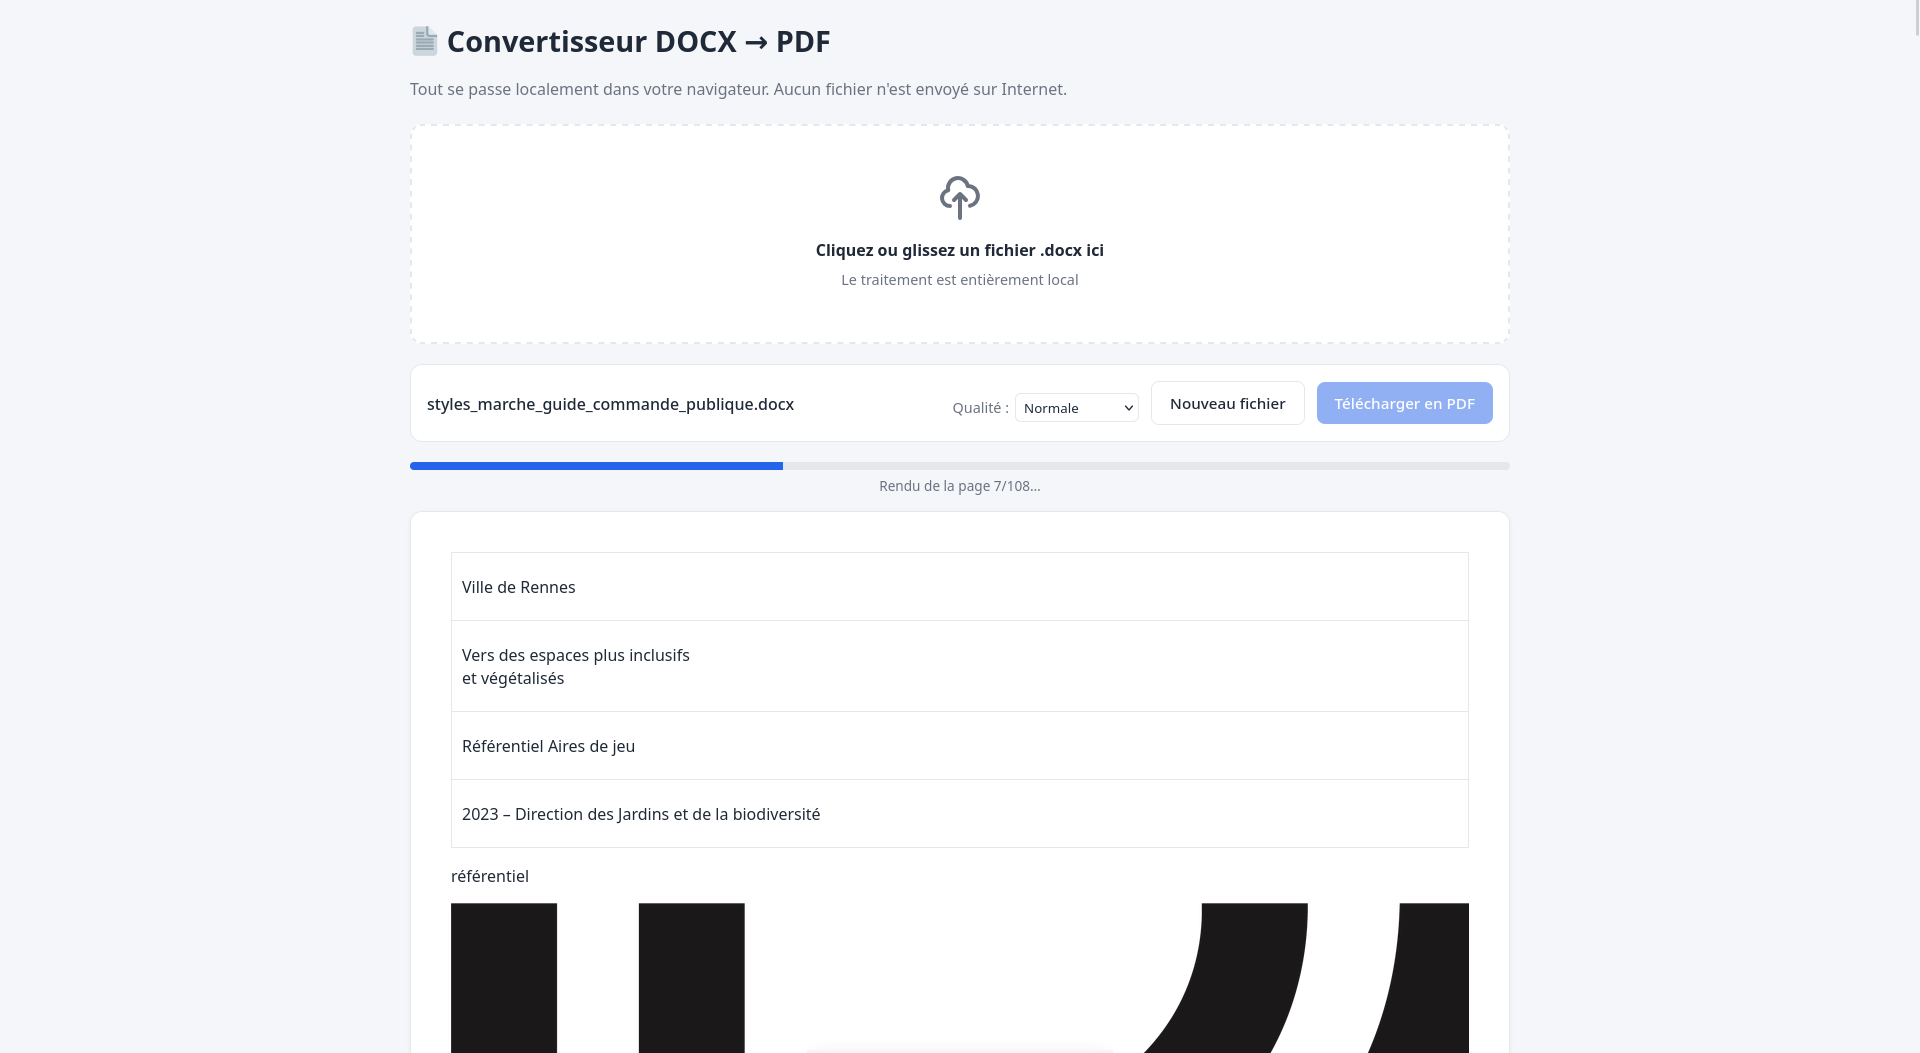
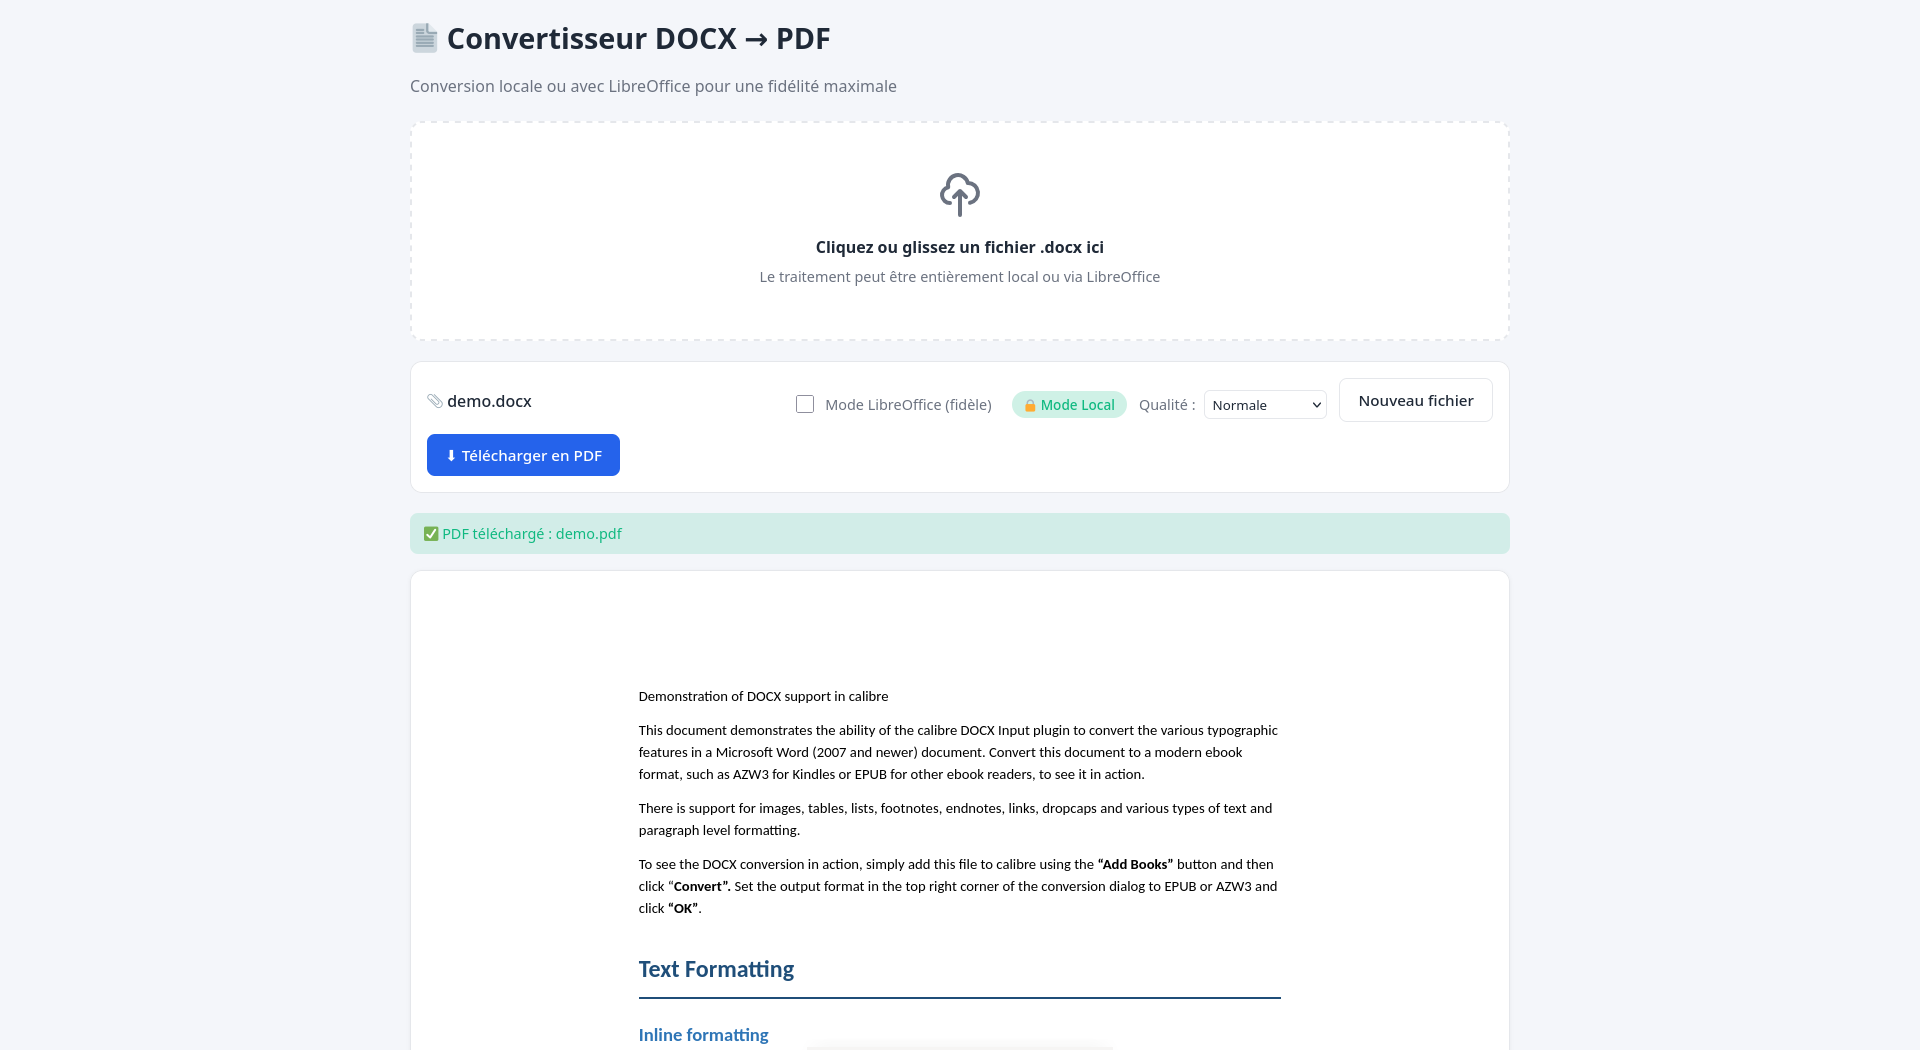
Py preview added, export bugfix, table & color possible with local export

diff --git a/docxTopdf.html b/docxTopdf.html
@@ -7,6 +7,7 @@
 <script src="https://cdnjs.cloudflare.com/ajax/libs/mammoth/1.6.0/mammoth.browser.min.js"></script>
 <script src="https://cdnjs.cloudflare.com/ajax/libs/jspdf/2.5.1/jspdf.umd.min.js"></script>
 <script src="https://cdnjs.cloudflare.com/ajax/libs/html2canvas/1.4.1/html2canvas.min.js"></script>
+<script src="https://cdnjs.cloudflare.com/ajax/libs/jszip/3.10.1/jszip.min.js"></script>
 <style>
   :root {
     --bg: #f4f6fa;
@@ -116,7 +117,7 @@
   .warning-box.active { display: block; }
   .warning-box strong { color: var(--warning); }
 
-  /* Styles de contenu PDF - fidèles à Word */
+  /* ============ STYLES DE CONTENU PDF ============ */
   .pdf-content {
     font-family: 'Calibri', 'Segoe UI', Arial, sans-serif;
     font-size: 11pt; line-height: 1.5; color: #000; background: #fff;
@@ -140,15 +141,95 @@
   .pdf-content .text-inverse { background: #000; color: #fff; padding: 2pt 6pt; }
   .pdf-content .paragraph-right { text-align: right; border-right: 3pt solid #ccc; background: #f0f0f0; padding: 8pt; margin: 9pt 0; }
   .pdf-content .paragraph-hanging { text-indent: -20pt; padding-left: 20pt; margin-top: 12pt; }
-  .pdf-content table { border-collapse: collapse; width: 100%; margin: 12pt 0; }
-  .pdf-content table th, .pdf-content table td { border: 1pt solid #000; padding: 4pt 8pt; text-align: left; }
-  .pdf-content table th { background: #d9e2f3; font-weight: bold; }
   .pdf-content ul, .pdf-content ol { margin: 9pt 0; padding-left: 30pt; }
   .pdf-content li { margin: 3pt 0; }
   .pdf-content img { max-width: 100%; height: auto; }
   .pdf-content a { color: #0563c1; text-decoration: underline; }
 
-  /* Conteneur de capture PDF - hauteur fixe A4 */
+  /* ============ TABLEAUX - STYLES COMPLETS ============ */
+  .pdf-content table {
+    border-collapse: collapse;
+    width: 100%;
+    margin: 12pt 0;
+    font-size: 10pt;
+    table-layout: auto;
+  }
+  .pdf-content table td,
+  .pdf-content table th {
+    border: 1pt solid #000000;
+    padding: 4pt 6pt;
+    text-align: left;
+    vertical-align: middle;
+    word-wrap: break-word;
+  }
+  .pdf-content table th {
+    background: #d9e2f3;
+    font-weight: bold;
+    color: #000;
+  }
+  /* Alternance de couleurs pour les lignes */
+  .pdf-content table tbody tr:nth-child(even) {
+    background: #f2f2f2;
+  }
+  .pdf-content table tbody tr:nth-child(odd) {
+    background: #ffffff;
+  }
+  /* Première ligne en gras si pas de th */
+  .pdf-content table tbody tr:first-child td {
+    font-weight: bold;
+    background: #e8edf5;
+  }
+  /* Tableaux flottants à gauche/droite */
+  .pdf-content table.float-left {
+    float: left;
+    margin-right: 12pt;
+    width: auto;
+  }
+  .pdf-content table.float-right {
+    float: right;
+    margin-left: 12pt;
+    width: auto;
+  }
+  /* Tableaux centrés */
+  .pdf-content table.centered {
+    margin-left: auto;
+    margin-right: auto;
+  }
+  /* Cellules fusionnées - style spécial */
+  .pdf-content table td[colspan],
+  .pdf-content table td[rowspan],
+  .pdf-content table th[colspan],
+  .pdf-content table th[rowspan] {
+    background: #f8f9fa;
+  }
+  /* Tableaux avec bordures colorées */
+  .pdf-content table.border-green td,
+  .pdf-content table.border-green th {
+    border-color: #008000;
+  }
+  .pdf-content table.border-blue td,
+  .pdf-content table.border-blue th {
+    border-color: #0000ff;
+  }
+  .pdf-content table.border-red td,
+  .pdf-content table.border-red th {
+    border-color: #ff0000;
+  }
+  /* Cellules vides - garder une hauteur minimale */
+  .pdf-content table td:empty::after,
+  .pdf-content table th:empty::after {
+    content: "\00a0";
+  }
+  /* Calendriers et tableaux larges */
+  .pdf-content table.wide {
+    font-size: 9pt;
+  }
+  .pdf-content table.wide td,
+  .pdf-content table.wide th {
+    padding: 2pt 4pt;
+  }
+
+  /* ============ CAPTURE PDF ============ */
   .pdf-page-capture {
     width: 794px;
     min-height: 1123px;
@@ -159,6 +240,15 @@
     font-family: 'Calibri', 'Segoe UI', Arial, sans-serif;
     font-size: 11pt;
     line-height: 1.5;
+  }
+  .pdf-page-capture table {
+    border-collapse: collapse;
+    width: 100%;
+  }
+  .pdf-page-capture table td,
+  .pdf-page-capture table th {
+    border: 1pt solid #000000;
+    padding: 4pt 6pt;
   }
 </style>
 </head>
@@ -256,7 +346,7 @@ function hideProgress() { progressWrap.classList.remove('active'); }
 libreofficeCheck.addEventListener('change', () => {
   if (libreofficeCheck.checked) {
     warningBox.classList.add('active');
-    modeIndicator.textContent = '🖥️ Mode LibreOffice';
+    modeIndicator.textContent = '️ Mode LibreOffice';
     modeIndicator.className = 'mode-indicator mode-libreoffice';
     showStatus('ℹ️ Mode LibreOffice activé - Fallback automatique si serveur indisponible', 'warning');
   } else {
@@ -281,6 +371,119 @@ fileInput.addEventListener('change', e => {
   if (e.target.files[0]) handleFile(e.target.files[0]);
 });
 
+// Extraire les styles inline du DOCX
+async function extractInlineStyles(file) {
+  const styles = new Map();
+  try {
+    const zip = await JSZip.loadAsync(file);
+    const documentXml = await zip.file('word/document.xml').async('string');
+    const parser = new DOMParser();
+    const xmlDoc = parser.parseFromString(documentXml, 'application/xml');
+    const runs = xmlDoc.getElementsByTagName('w:r');
+    let runIndex = 0;
+    for (const run of runs) {
+      const rPr = run.getElementsByTagName('w:rPr')[0];
+      if (rPr) {
+        const styleInfo = {};
+        const color = rPr.getElementsByTagName('w:color')[0];
+        if (color) styleInfo.color = '#' + color.getAttribute('w:val');
+        const highlight = rPr.getElementsByTagName('w:highlight')[0];
+        if (highlight) styleInfo.highlight = highlight.getAttribute('w:val');
+        const border = rPr.getElementsByTagName('w:bdr')[0];
+        if (border) styleInfo.border = true;
+        const strike = rPr.getElementsByTagName('w:strike')[0];
+        if (strike && strike.getAttribute('w:val') !== '0') styleInfo.strike = true;
+        if (Object.keys(styleInfo).length > 0) styles.set(runIndex, styleInfo);
+      }
+      runIndex++;
+    }
+  } catch (err) {
+    console.warn('Erreur extraction styles:', err);
+  }
+  return styles;
+}
+
+// Appliquer les styles inline au HTML
+function applyInlineStyles(html, styles) {
+  const parser = new DOMParser();
+  const doc = parser.parseFromString(html, 'text/html');
+  const elements = doc.body.querySelectorAll('p, span, strong, em, b, i, u, s');
+  let elementIndex = 0;
+  for (const el of elements) {
+    const styleInfo = styles.get(elementIndex);
+    if (styleInfo) {
+      if (styleInfo.color && styleInfo.color !== '#000000') el.style.color = styleInfo.color;
+      if (styleInfo.highlight) {
+        const highlightColors = {
+          yellow: '#FFFF00', green: '#00FF00', blue: '#00FFFF', red: '#FF0000',
+          magenta: '#FF00FF', cyan: '#00FFFF', white: '#FFFFFF', darkBlue: '#00008B',
+          darkCyan: '#008B8B', darkGreen: '#006400', darkMagenta: '#8B008B',
+          darkRed: '#8B0000', darkYellow: '#808000', darkGray: '#A9A9A9',
+          lightGray: '#D3D3D3', black: '#000000'
+        };
+        el.style.backgroundColor = highlightColors[styleInfo.highlight] || styleInfo.highlight;
+        el.style.padding = '2pt 4pt';
+      }
+      if (styleInfo.border) {
+        el.style.border = '1pt solid #000';
+        el.style.padding = '4pt 8pt';
+        el.style.display = 'inline-block';
+      }
+      if (styleInfo.strike) el.style.textDecoration = 'line-through';
+    }
+    elementIndex++;
+  }
+  return doc.body.innerHTML;
+}
+
+// Améliorer les tableaux : forcer les bordures et la structure
+function enhanceTables(html) {
+  const parser = new DOMParser();
+  const doc = parser.parseFromString(html, 'text/html');
+  const tables = doc.querySelectorAll('table');
+  
+  tables.forEach((table, tableIndex) => {
+    // Forcer border-collapse
+    table.style.borderCollapse = 'collapse';
+    table.style.width = '100%';
+    table.style.margin = '12pt 0';
+    
+    const rows = table.querySelectorAll('tr');
+    rows.forEach((row, rowIndex) => {
+      const cells = row.querySelectorAll('td, th');
+      cells.forEach((cell, cellIndex) => {
+        // Forcer les bordures sur chaque cellule
+        cell.style.border = '1pt solid #000000';
+        cell.style.padding = '4pt 6pt';
+        cell.style.verticalAlign = 'middle';
+        
+        // Première ligne = en-tête
+        if (rowIndex === 0) {
+          cell.style.fontWeight = 'bold';
+          cell.style.background = '#d9e2f3';
+          if (cell.tagName === 'TD') {
+            cell.tagName = 'TH';
+          }
+        }
+        // Alternance de couleurs
+        else if (rowIndex % 2 === 0) {
+          cell.style.background = '#f2f2f2';
+        }
+        else {
+          cell.style.background = '#ffffff';
+        }
+        
+        // Cellules vides : ajouter un espace insécable
+        if (cell.textContent.trim() === '') {
+          cell.innerHTML = '&nbsp;';
+        }
+      });
+    });
+  });
+  
+  return doc.body.innerHTML;
+}
+
 async function handleFile(file) {
   hideStatus();
   if (!file.name.toLowerCase().endsWith('.docx')) {
@@ -294,7 +497,10 @@ async function handleFile(file) {
   setProgress(10, 'Lecture du fichier…');
   try {
     const arrayBuffer = await file.arrayBuffer();
-    setProgress(40, 'Conversion en HTML…');
+    setProgress(30, 'Extraction des styles inline…');
+    const inlineStyles = await extractInlineStyles(file);
+    
+    setProgress(50, 'Conversion en HTML…');
     const result = await mammoth.convertToHtml(
       { arrayBuffer },
       {
@@ -305,12 +511,18 @@ async function handleFile(file) {
         })
       }
     );
-    currentHtml = result.value;
+    
+    // Appliquer les styles inline ET améliorer les tableaux
+    let enhancedHtml = applyInlineStyles(result.value, inlineStyles);
+    enhancedHtml = enhanceTables(enhancedHtml);
+    
+    currentHtml = enhancedHtml;
     preview.innerHTML = '<div class="pdf-content">' + currentHtml + '</div>';
+    
     setProgress(100, 'Prévisualisation prête ✓');
     setTimeout(hideProgress, 800);
     toolbar.style.display = 'flex';
-    showStatus('✅ Fichier chargé et prévisualisé', 'success');
+    showStatus('✅ Fichier chargé avec styles et tableaux', 'success');
   } catch (err) {
     console.error(err);
     hideProgress();
@@ -318,7 +530,6 @@ async function handleFile(file) {
   }
 }
 
-// Découpe le HTML en pages A4 (794x1123px)
 function splitIntoPages(htmlContent) {
   const parser = new DOMParser();
   const doc = parser.parseFromString(htmlContent, 'text/html');
@@ -328,10 +539,9 @@ function splitIntoPages(htmlContent) {
   let currentPage = document.createElement('div');
   currentPage.className = 'pdf-page-capture';
   let currentHeight = 0;
-  const maxHeight = 973; // 1123 - 150 (padding)
+  const maxHeight = 973;
 
   for (const child of children) {
-    // Mesurer la hauteur réelle de l'élément
     const tempDiv = document.createElement('div');
     tempDiv.style.cssText = 'position:absolute;visibility:hidden;width:644px;top:-9999px;left:-9999px;';
     tempDiv.appendChild(child.cloneNode(true));
@@ -407,26 +617,21 @@ async function convertLocally() {
 
 async function convertWithLibreOffice(file) {
   setProgress(0, 'Tentative de connexion au serveur LibreOffice…');
-
   const formData = new FormData();
   formData.append('file', file);
 
   try {
     const controller = new AbortController();
     const timeoutId = setTimeout(() => controller.abort(), 5000);
-
     const response = await fetch(LIBREOFFICE_SERVER + '/convert', {
       method: 'POST',
       body: formData,
       signal: controller.signal
     });
-
     clearTimeout(timeoutId);
-
     if (!response.ok) throw new Error('Erreur serveur: ' + response.status);
 
     setProgress(50, 'Conversion en cours sur le serveur…');
-
     const blob = await response.blob();
     const url = window.URL.createObjectURL(blob);
     const a = document.createElement('a');
@@ -436,7 +641,6 @@ async function convertWithLibreOffice(file) {
     a.click();
     window.URL.revokeObjectURL(url);
     document.body.removeChild(a);
-
     return true;
   } catch (err) {
     console.warn('Serveur LibreOffice indisponible:', err);
@@ -446,17 +650,15 @@ async function convertWithLibreOffice(file) {
 
 downloadBtn.addEventListener('click', async () => {
   downloadBtn.disabled = true;
-
   try {
     if (libreofficeCheck.checked) {
       const success = await convertWithLibreOffice(currentFile);
-
       if (success) {
         setProgress(100, 'PDF généré avec LibreOffice ✓');
         setTimeout(hideProgress, 1000);
         showStatus('✅ PDF téléchargé via LibreOffice : ' + currentName + '.pdf', 'success');
       } else {
-        showStatus('️ Serveur LibreOffice indisponible, bascule en mode local…', 'warning');
+        showStatus('⚠️ Serveur LibreOffice indisponible, bascule en mode local…', 'warning');
         setProgress(0, 'Conversion en mode local…');
         const pdf = await convertLocally();
         setProgress(95, 'Sauvegarde…');

diff --git a/README.md b/README.md
@@ -2,3 +2,5 @@
 Docx to PDF local web page
 
 ![image](./preview/capture.png)
+
+![image](./preview/capture_py.png)